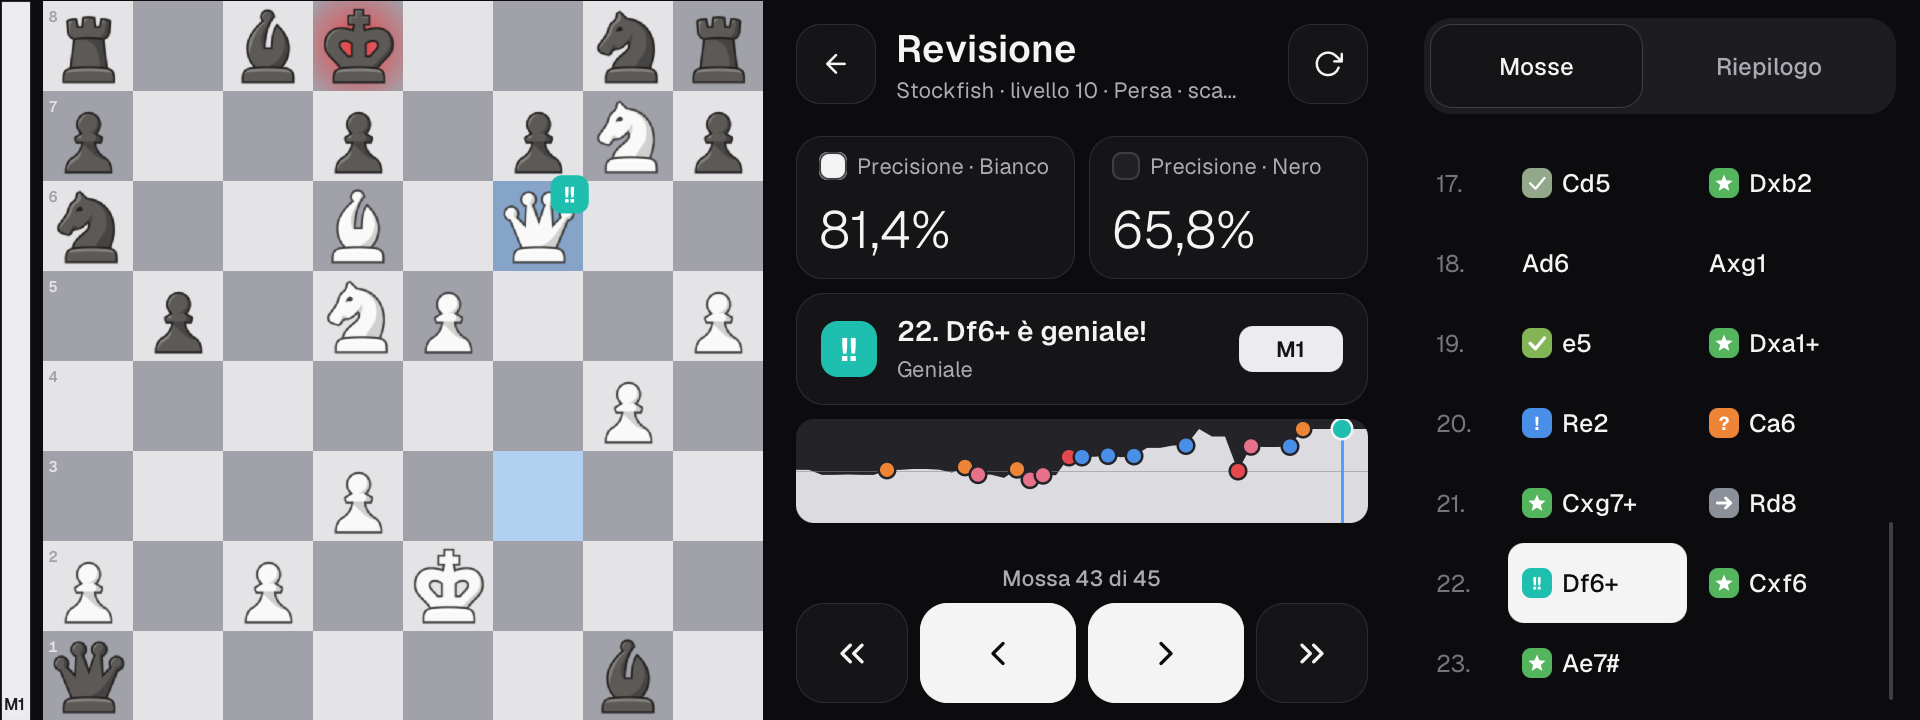
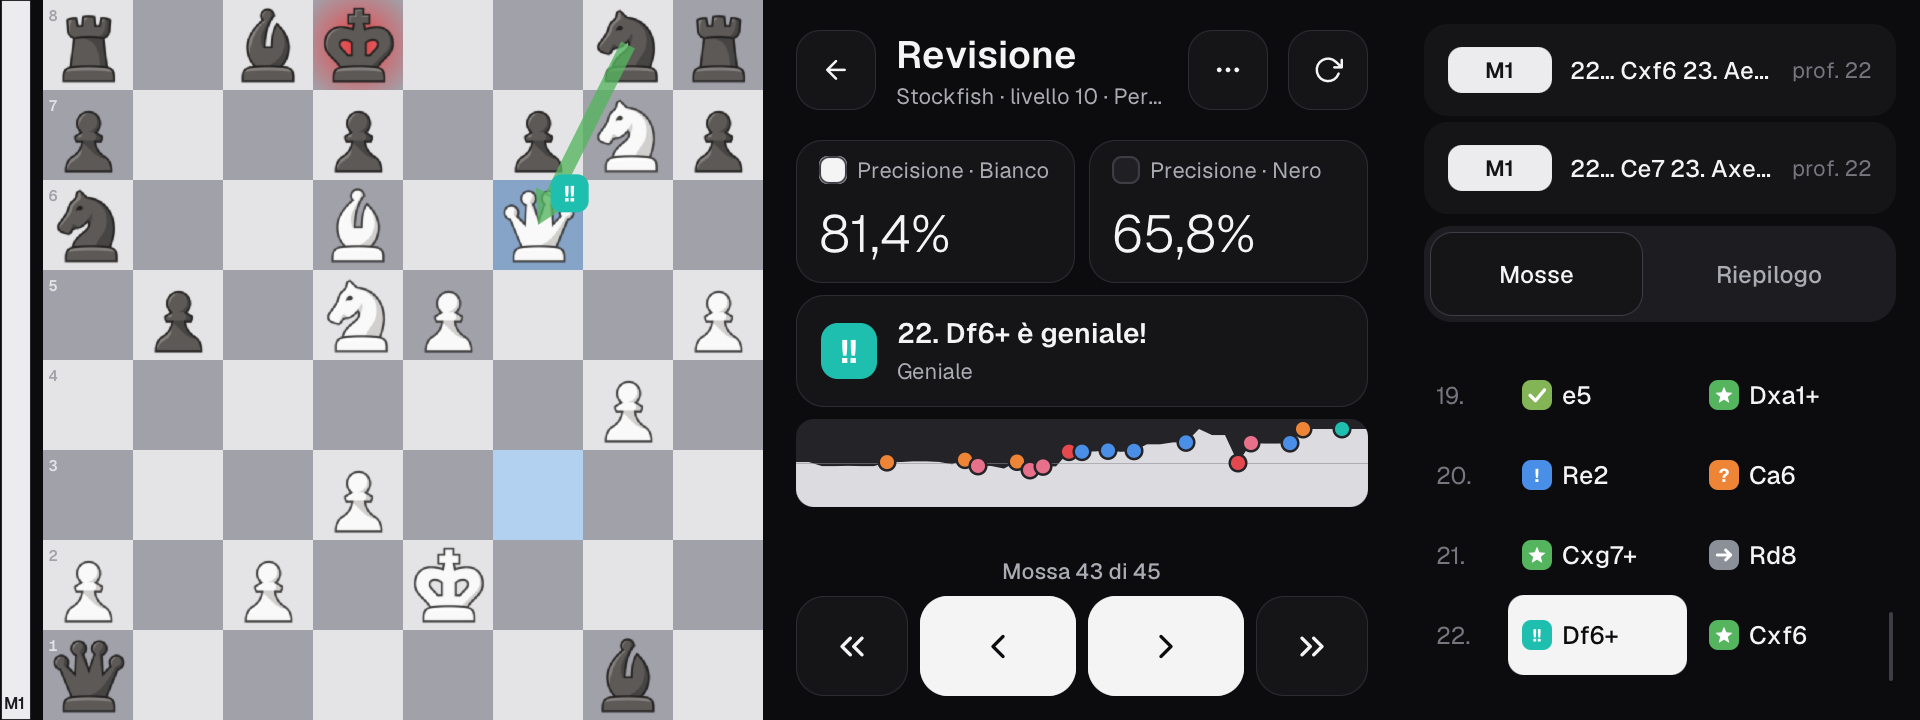
Fix the browser view FXML import, review layout with lines in landscape, docs
- BrowserView.fxml imported ScreenHeader by class name: FXMLLoader reads the
  capitalised package 'Components' as a class and the view failed to load. Use the
  wildcard import, and a UiResourcesTest check that keeps app imports wildcards.
- Landscape review: computer lines in the third column.
- Screenshots: review with computer lines, a variation, light theme, landscape and
  the browser placeholder; SUMMARY.md with integrations, tests and open items.

diff --git a/src/test/java/io/github/hardin22/javachess/Components/UiResourcesTest.java b/src/test/java/io/github/hardin22/javachess/Components/UiResourcesTest.java
@@ -46,6 +46,25 @@ class UiResourcesTest {
         assertEquals(List.of(), missing);
     }
 
+    /**
+     * FXMLLoader reads a capitalised package segment ("Components") as a class name, so a single-class import such as
+     * {@code io.github.hardin22.javachess.Components.ScreenHeader} fails at run time: app classes need wildcards.
+     */
+    @Test
+    void fxmlImportsOfAppClassesUseWildcards() throws Exception {
+        Pattern imp = Pattern.compile("<\\?import (io\\.github\\.hardin22\\.javachess\\.[\\w.]+)\\?>");
+        List<String> bad = new ArrayList<>();
+        for (Path fxml : fxmlFiles()) {
+            Matcher m = imp.matcher(Files.readString(fxml, StandardCharsets.UTF_8));
+            while (m.find()) {
+                if (!m.group(1).endsWith(".*")) {
+                    bad.add(fxml.getFileName() + ": " + m.group(1));
+                }
+            }
+        }
+        assertEquals(List.of(), bad);
+    }
+
     @Test
     void everyIconLiteralIsAFeatherIcon() throws Exception {
         Set<String> known = Arrays.stream(Feather.values()).map(Feather::getDescription).collect(Collectors.toSet());

diff --git a/src/main/java/io/github/hardin22/javachess/Controllers/ReviewController.java b/src/main/java/io/github/hardin22/javachess/Controllers/ReviewController.java
@@ -299,10 +299,10 @@ public class ReviewController implements Screen, GameNavigationListener {
         }
         root.setBottom(null);
         root.setTop(null);
-        body.getChildren().addAll(header, summary, moveCard, linesBox, evaluationGraph, Ui.vgrow(), bottomBar);
+        body.getChildren().addAll(header, summary, moveCard, evaluationGraph, Ui.vgrow(), bottomBar);
         body.setPrefWidth(620);
         body.setMinWidth(480);
-        VBox moves = new VBox(12, followStatus, tabBarNode, tabContent);
+        VBox moves = new VBox(12, followStatus, linesBox, tabBarNode, tabContent);
         moves.setPadding(new Insets(24, 0, 24, 0));
         moves.setPrefWidth(520);
         moves.setMinWidth(380);

diff --git a/docs/design/SUMMARY.md b/docs/design/SUMMARY.md
@@ -24,6 +24,8 @@ e cosa è cambiato nel codice.
 | **Tipografia**: Geist e Geist Light per i numeri grandi; niente cifre monospaziate visibili (lo zero barrato di Geist Mono stona negli orologi e nei punteggi). Testo corrente 22–24 px, titoli 38–44, numeri 52–76, orologi fino a 230. | Leggibilità a distanza e un'aria elegante senza effetti costosi. |
 | **Prestazioni**: nessuna ombra né sfocatura, nessuna animazione continua; transizioni da 160–240 ms solo dopo un tocco (`-Djavachess.animations=off` le toglie); l'orologio aggiorna un'etichetta per cella al secondo; liste virtualizzate. | Il Pi usa spesso il rendering software, dove ogni effetto si paga a ogni ridisegno. |
 | **Lichess nel browser integrato** come Chess.com (tile «Online» → foglio con le due voci). | Richiesta dell'utente; il flusso via Board API resta in Impostazioni → Avanzate. |
+| **Linee del computer nella revisione**, sempre visibili sotto la carta della mossa (2 di default, 1–3), con tocco = variante; «Vedi la migliore» sugli errori; varianti con «Torna alla partita». | Era la lamentela esplicita dell'utente. La logica è il view-model `AnalysisSession` di features (package `Analysis`); la schermata lo presenta e basta. |
+| **Mosse dallo schermo** (tocco sul pezzo → punti sulle case possibili → tocco sulla destinazione) solo senza scacchiera collegata; in revisione creano varianti. | Senza scacchiera (o se si scollega) la partita non deve essere un vicolo cieco; con la scacchiera collegata una mossa sullo schermo disallineerebbe i sensori. |
 
 ## Architettura UI
 
@@ -47,6 +49,22 @@ e cosa è cambiato nel codice.
 - Abbandono e patta d'accordo usano l'API esistente `endGame(messaggio, salva)` con messaggi che l'archivio già
   interpreta («Il Bianco abbandona: vince il Nero» → 0-1, Abbandono; «Patta d'accordo» → ½-½).
 
+## Integrazioni con le altre sessioni
+
+- **features** (package `Analysis`, su main 2c68808): `ReviewController` usa `AnalysisSession` per navigazione,
+  varianti, linee del computer (`EngineLines`), apertura offline, «mostra la migliore», scacchiera fisica che segue
+  l'analisi (`BoardFollower`, dal menu ⋯) e `ReviewInsights` (precisione per fase, momenti chiave nel Riepilogo).
+  La scacchiera si ridisegna solo su `positionProperty()` (una notifica per mossa). Il package `Play` (cadenze,
+  livelli in Elo, ripresa della partita, posizione da FEN) è su main ma la sua specifica UI (spec 03) non era ancora
+  arrivata: da collegare in `PvcSetupController`/`ActiveGameController`.
+- **qa**: le mosse dallo schermo usano l'API esistente `handleMoveInput`; quando qa porterà su main
+  `AbstractGame.isAwaitingHumanMove()` e l'UCI a 5 caratteri, sostituire la regola in
+  `ActiveGameController.screenMovesAllowed()` e aggiungere il selettore di promozione (oggi auto-donna, come la
+  logica). Il messaggio di risincronizzazione («Rimetti i pezzi…») è già riconosciuto come fase di preparazione.
+- **browser**: `BrowserView.fxml` è mia per l'aspetto, con il contratto concordato (`statusTitle`,
+  `statusDetail`, `statusProgress`, `actionBox` riempito con pulsanti `btn btn-lg` + variante); logica, stati e
+  barra Swing sono della sessione browser.
+
 ## Verifica
 
 - Screenshot sul monitor reale (schermo 1) per ogni schermata e stato, scuro e chiaro, verticale, ruotato e
@@ -56,4 +74,17 @@ e cosa è cambiato nel codice.
 - Archivio dimostrativo: `-Djavachess.home=<cartella vuota> -Djavachess.demo.seed=240` lo riempie con partite
   storiche di pubblico dominio (`src/main/resources/demo/famous-games.tsv`) registrate come partite locali di ogni
   modalità. Le etichette e la precisione della revisione sono calcolate dal classificatore reale.
-- Test: unitari e E2E verdi (vedi il commit finale).
+- Prestazioni con `-Dprism.order=sw` (Mac, scena della partita a due con l'orologio che scorre, Home): CPU dell'app
+  1–3% a riposo; nessuna animazione continua.
+- Test: `./mvnw test` → 454 test (6 E2E), 0 falliti, 10 saltati (test di motore/dati opzionali). Gli E2E non sono
+  stati indeboliti: stessi scenari e controlli (partita fino al matto archiviata, cambio motore, tempo scaduto,
+  puzzle, revisione con precisione, archivio apri/esporta/elimina).
+
+## Aperti
+
+- Spec 03 di features (partita contro il computer: livelli in Elo, orologio, annulla, suggerimento a richiesta,
+  patta al bot, ripresa dopo riavvio, partita da posizione) e spec 02 (rigioca i tuoi errori): da collegare quando
+  arrivano.
+- Due giocatori in orizzontale: le metà stanno diritte ai lati della scacchiera (in un montaggio orizzontale i
+  giocatori non siedono alle due estremità); ruotarle di ±90° è possibile ma non è stato necessario.
+- La schermata del browser (segnaposto mentre JCEF parte) andrà ricontrollata dopo il merge della sessione browser.
